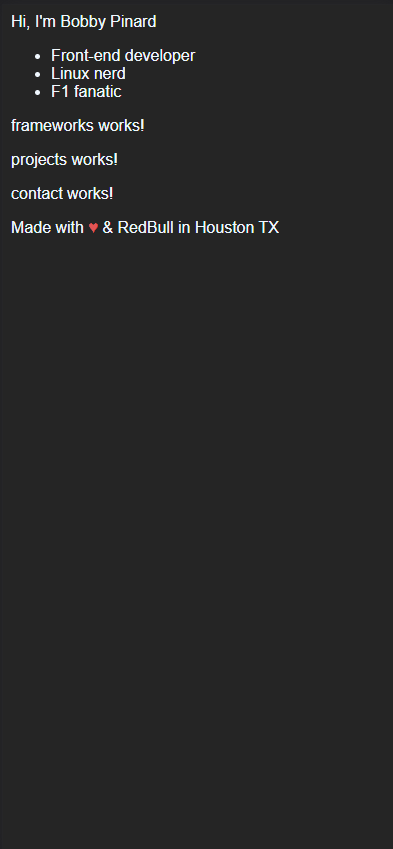
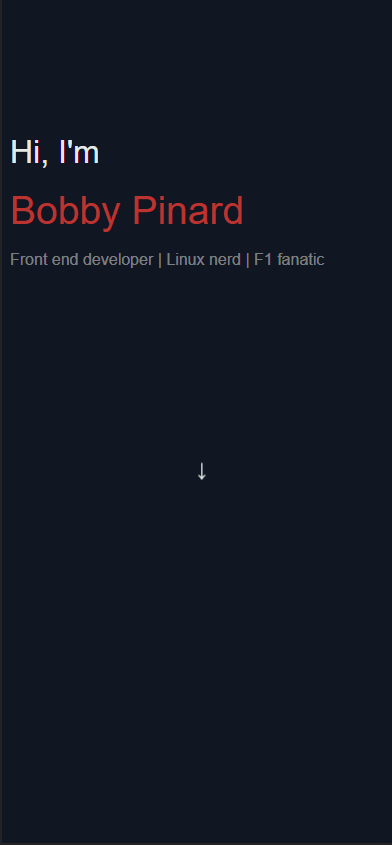
Intro animations done

Changed region(s): [[0.0306, 0.0, 0.7041, 0.3385], [0.7041, 0.2769, 0.8265, 0.3385], [0.4898, 0.5538, 0.5204, 0.5846]]

diff --git a/src/app/components/intro/intro.component.css b/src/app/components/intro/intro.component.css
@@ -1,12 +1,31 @@
 
-#greeting {
-    font-size: xx-large;
-    opacity: 0;
-    transition-duration: .75s;
+
+@keyframes slideInFromLeft {
+    0% {
+        transform: translateX(-50%);
+        opacity: 0;
+    }
+    100% {
+        transform: translateX(0);
+        opacity: 1;
+    }
 }
 
-#greeting:hover {
-    opacity: 1;
+@keyframes slideInFromBottom {
+    0% {
+        transform: translateY(200%);
+        opacity: 0;
+    }
+    100% {
+        transform: translateY(0);
+        opacity: 1;
+    }
+}
+
+@keyframes bounceDown {
+    0% {transform: translateY(0);}
+    50% {transform: translateY(10px);}
+    100% {transform: translateY(0);}
 }
 
 #intro {
@@ -14,19 +33,29 @@
     padding-top: 15vh;
 }
 
-#name {
-    color: #BB342F;
-    font-size: 10vw;
-    opacity: 0;
-    transition-duration: .75s;
+#greeting {
+    animation: 1s ease slideInFromLeft;
+    font-size: xx-large;
+    display: block;
 }
 
-
-#name:hover {
-    opacity: 1;
-    transform: translateY(100px);
+#name {
+    animation: .75s ease slideInFromLeft;
+    color: #BB342F;
+    font-size: 10vw;
+    display: block;
 }
 
 #traits {
+    animation: 1s ease slideInFromBottom;
     color: #e6e8e67e;
+    display: block;
+}
+
+#arrowDown {
+    animation: 1s ease bounceDown infinite;
+    font-size: 1.2rem;
+    padding-left: 50%;
+    padding-top: 50%;
+    display: block;
 }

diff --git a/src/app/components/intro/intro.component.html b/src/app/components/intro/intro.component.html
@@ -3,4 +3,5 @@
     <span id="name">Bobby Pinard</span><br>
     
     <span id="traits">Front end developer &vert; Linux nerd &vert; F1 fanatic</span>
+    <span id="arrowDown">&darr;</span>
 </div>
